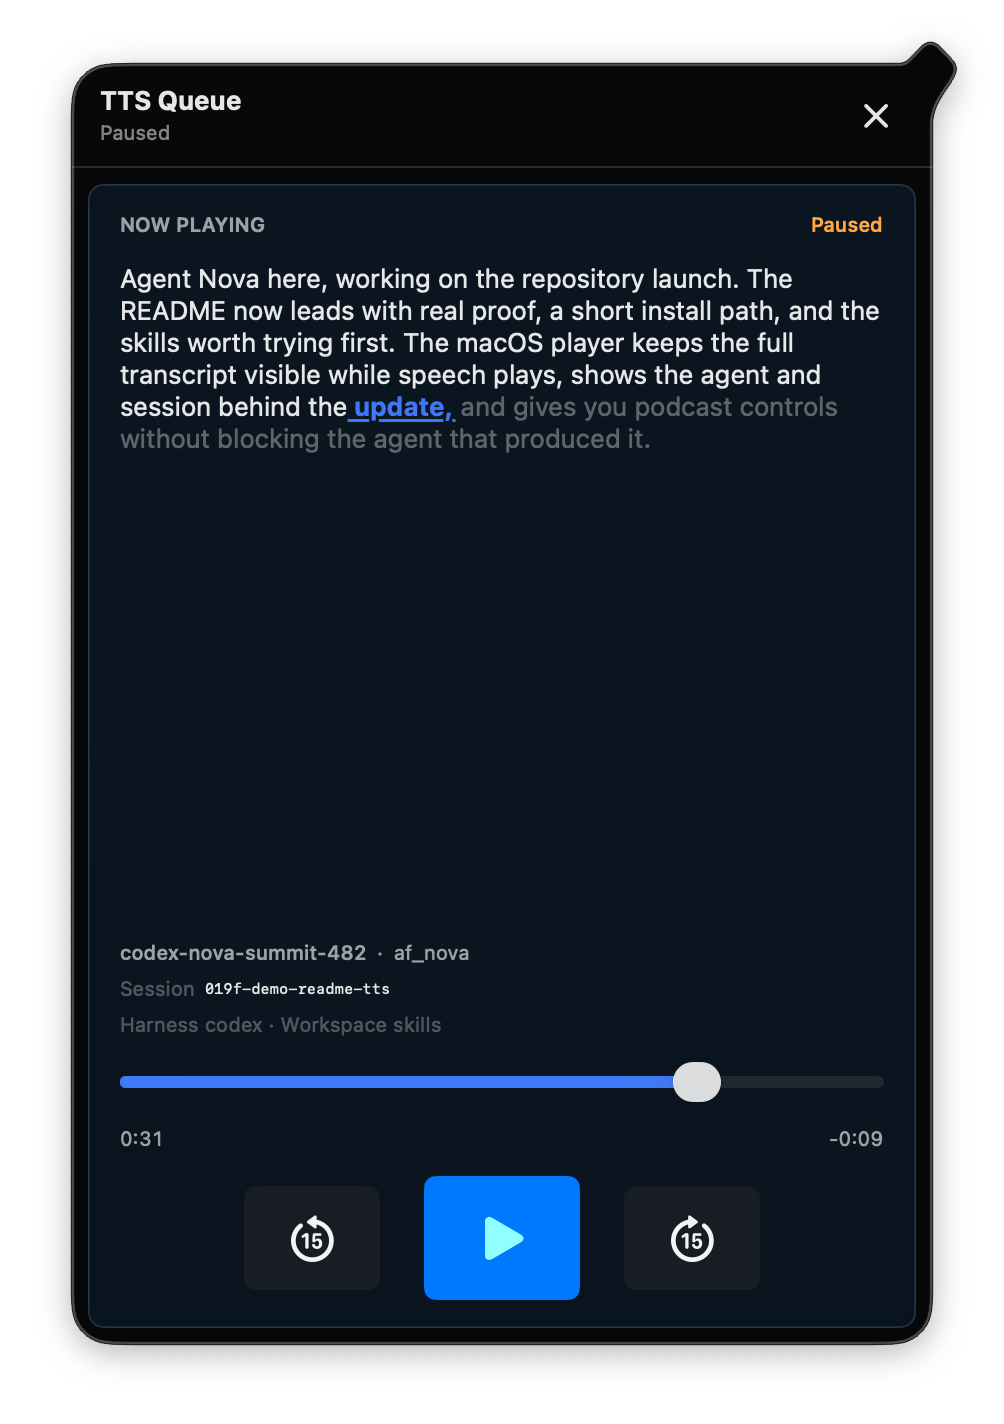
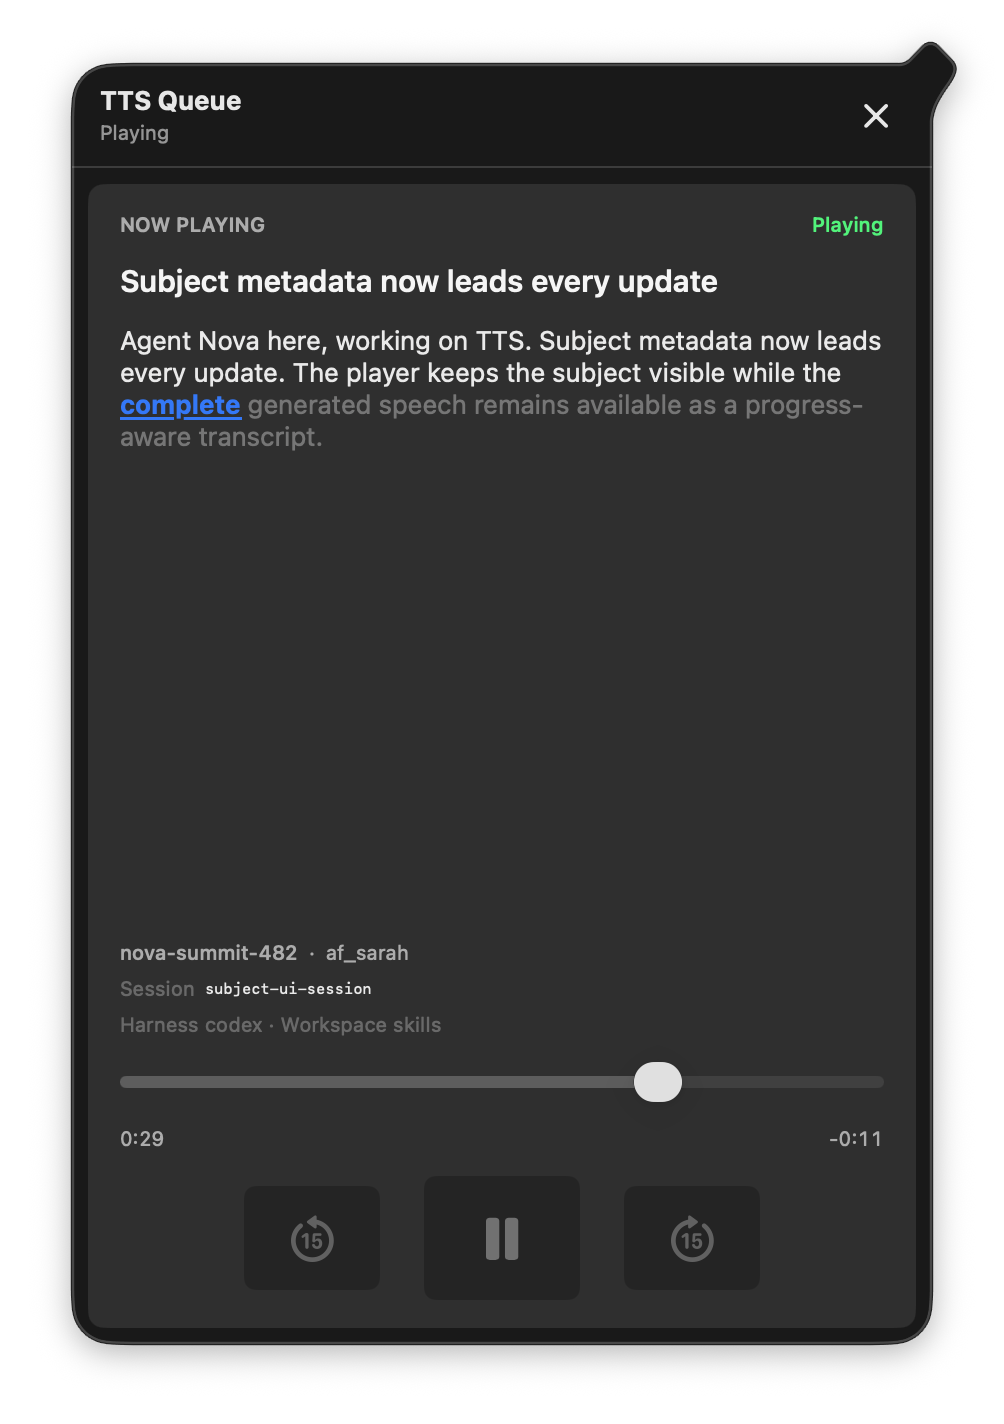
tts: add optional spoken subjects (#56)
Fixes #55

diff --git a/tts/macos/Sources/TTSMenuBar/TTSMenuBarApp.swift b/tts/macos/Sources/TTSMenuBar/TTSMenuBarApp.swift
@@ -232,6 +232,13 @@ private struct CurrentPlaybackView: View {
                     .foregroundStyle(controller.isPaused ? .orange : .green)
             }
 
+            if let subject = item.subjectLabel {
+                Text(subject)
+                    .font(.title3.weight(.semibold))
+                    .lineLimit(2)
+                    .accessibilityAddTraits(.isHeader)
+            }
+
             TranscriptView(
                 text: item.text,
                 currentTime: controller.currentTime,
@@ -459,7 +466,7 @@ private struct ItemRow: View {
                 .buttonStyle(.plain)
                 .disabled(!FileManager.default.fileExists(atPath: item.outputFile))
                 .help("Replay")
-                .accessibilityLabel("Replay " + item.text)
+                .accessibilityLabel("Replay " + (item.subjectLabel ?? item.text))
             } else {
                 rowContent(showsReplay: false)
             }
@@ -475,8 +482,18 @@ private struct ItemRow: View {
     private func rowContent(showsReplay: Bool) -> some View {
         HStack(alignment: .top, spacing: 10) {
             VStack(alignment: .leading, spacing: 4) {
-                Text(item.text)
-                    .lineLimit(2)
+                if let subject = item.subjectLabel {
+                    Text(subject)
+                        .fontWeight(.semibold)
+                        .lineLimit(2)
+                    Text(item.text)
+                        .font(.caption)
+                        .foregroundStyle(.secondary)
+                        .lineLimit(2)
+                } else {
+                    Text(item.text)
+                        .lineLimit(2)
+                }
                 MetadataLine(item: item)
 
                 if let session = item.sessionLabel {

diff --git a/tts/macos/Tests/TTSMenuBarTests/QueueStoreTests.swift b/tts/macos/Tests/TTSMenuBarTests/QueueStoreTests.swift
@@ -47,6 +47,7 @@ struct QueueStoreTests {
 
         #expect(replay.id.hasPrefix("replay-"))
         #expect(replay.text == original.text)
+        #expect(replay.subject == original.subject)
         #expect(replay.agentName == original.agentName)
         #expect(replay.sessionID == original.sessionID)
         #expect(replay.status == .queued)
@@ -61,6 +62,26 @@ struct QueueStoreTests {
         value.sessionID = "019c-live-menu-uat-full-session"
 
         #expect(value.sessionLabel == "019c-live-menu-uat-full-session")
+    }
+
+    @Test
+    func keepsOptionalSubjectForDisplay() {
+        var value = item(id: "subject", createdAt: 10)
+        value.subject = "Queue ownership is now explicit"
+
+        #expect(value.subjectLabel == "Queue ownership is now explicit")
+    }
+
+    @Test
+    func decodesExistingQueueItemsWithoutSubject() throws {
+        let data = try JSONEncoder().encode(item(id: "legacy", createdAt: 10))
+        var object = try #require(JSONSerialization.jsonObject(with: data) as? [String: Any])
+        object.removeValue(forKey: "subject")
+
+        let legacyData = try JSONSerialization.data(withJSONObject: object)
+        let decoded = try JSONDecoder().decode(TTSItem.self, from: legacyData)
+
+        #expect(decoded.subject == nil)
     }
 
     @Test
@@ -90,6 +111,7 @@ struct QueueStoreTests {
         TTSItem(
             id: id,
             text: "A useful spoken update",
+            subject: "A useful spoken update subject",
             agentName: "clay-river-860",
             harness: "codex",
             sessionID: "thread-123",

diff --git a/tts/macos/Sources/TTSMenuBar/Models.swift b/tts/macos/Sources/TTSMenuBar/Models.swift
@@ -19,6 +19,7 @@ enum PlaybackStatus: String, Codable, CaseIterable {
 struct TTSItem: Codable, Identifiable, Equatable {
     var id: String
     var text: String
+    var subject: String?
     var agentName: String?
     var harness: String?
     var sessionID: String?
@@ -35,6 +36,7 @@ struct TTSItem: Codable, Identifiable, Equatable {
     enum CodingKeys: String, CodingKey {
         case id
         case text
+        case subject
         case agentName = "agent_name"
         case harness
         case sessionID = "session_id"
@@ -51,6 +53,10 @@ struct TTSItem: Codable, Identifiable, Equatable {
 
     var displayAgent: String {
         nonempty(agentName) ?? nonempty(harness) ?? "Unknown agent"
+    }
+
+    var subjectLabel: String? {
+        nonempty(subject)
     }
 
     var workspaceName: String? {
@@ -70,6 +76,7 @@ struct TTSItem: Codable, Identifiable, Equatable {
         TTSItem(
             id: "replay-\(UUID().uuidString.lowercased())",
             text: text,
+            subject: subject,
             agentName: agentName,
             harness: harness,
             sessionID: sessionID,

diff --git a/tts/SKILL.md b/tts/SKILL.md
@@ -44,6 +44,16 @@ harness name. Use names like `quinn-delta-306`; do not use generic values like
 script can choose a deterministic voice from that name. Use `--voice-id` only
 when a specific voice is required.
 
+## Subject
+
+Use `--subject` when a substantive update benefits from a scannable topic in
+the queue. Write 5 to 10 words that name the outcome or subject clearly. The
+subject is displayed prominently in the player and spoken immediately after
+any introduction, before the message body.
+
+Skip `--subject` when it would add ceremony without useful context, such as a
+brief conversational response, acknowledgement, or follow-up question.
+
 ## Playback behavior
 
 By default, `scripts/tts` generates the MP3 in the foreground, then queues
@@ -57,7 +67,8 @@ uses a podcast-style player with an approximate word-progress transcript.
 While an item is playing or paused, the popup focuses on its full player and
 transcript; the queue and recent history return when playback becomes idle.
 Queue rows include the text, voice, agent name, and any harness, full session
-identifier, and workspace metadata available in the calling environment.
+identifier, subject, and workspace metadata available in the calling
+environment.
 
 Use `scripts/tts-menu status` to check whether TTS is playing and inspect queue
 counts. Use `scripts/tts-menu status --json` for structured status. Use
@@ -81,6 +92,6 @@ ends.
 Queue records, process state, and logs live under the TTS state directory,
 normally `~/.local/state/tts/`.
 
-`./scripts/tts --agent-name quinn-delta-306 --introduction "Agent Quinn here, working on improving TTS identity cues." "The fix is ready."` will speak with identity context when needed.
+`./scripts/tts --agent-name quinn-delta-306 --introduction "Agent Quinn here, working on TTS." --subject "Playback queue ownership is now explicit" "The fix is ready."` will speak the introduction when needed, then the subject, then the body.
 
 `./scripts/tts --no-play --voice-id af_bella "Hello world"` will generate the MP3, print its output path, skip playback, and use an explicit voice.

diff --git a/tts/README.md b/tts/README.md
@@ -7,7 +7,7 @@ Agent work is increasingly parallel, but attention is still serial. Important up
 `tts` gives those updates a shared audio surface. Each agent can finish a meaningful unit of work with a short spoken message, then return control immediately. The listener gets one orderly stream instead of overlapping voices or another queue of unread text.
 
 <p align="center">
-  <img src="../assets/tts-menu-player.png" alt="The TTS macOS menu-bar player showing transcript progress, agent identity, session metadata, timeline, and playback controls" width="460">
+  <img src="../assets/tts-menu-player.png" alt="The TTS macOS menu-bar player showing a subject, transcript progress, agent identity, session metadata, timeline, and playback controls" width="460">
 </p>
 
 ## The experience
@@ -19,6 +19,7 @@ The workflow owns more than text generation:
 - One resident macOS process serializes updates from every agent session.
 - The current transcript receives the full player surface, with approximate word highlighting as playback advances.
 - Agent name, voice, harness, workspace, and full session identifier make each update attributable.
+- An optional 5-to-10-word subject is spoken after the introduction and gives substantive updates a scannable title in the player and queue.
 - Pause, timeline scrubbing, 15-second seek, and replay make it behave like a small podcast queue rather than a fire-and-forget alert.
 - Music and Spotify can be paused for speech and resumed afterward.
 
@@ -33,6 +34,7 @@ export KOKORO_API_ENDPOINT="https://<your-host>/v1/audio/speech"
 ./scripts/tts \
   --agent-name nova-summit-482 \
   --introduction "Agent Nova here, working on the repository launch." \
+  --subject "The repository launch update is ready" \
   "The README update is ready for review."
 ```
 

diff --git a/README.md b/README.md
@@ -29,10 +29,10 @@ The agent should inspect the repository before it writes, identify the real audi
 
 Agents already produce useful status updates. `tts` turns them into a shared audio queue you can follow without watching every terminal or letting concurrent sessions speak over each other.
 
-On macOS, it becomes a menu-bar player with a readable transcript, agent and session identity, timeline scrubbing, pause, seek, and replay. Generation failures stay visible to the calling agent before playback moves into the background.
+On macOS, it becomes a menu-bar player with optional spoken subjects, a readable transcript, agent and session identity, timeline scrubbing, pause, seek, and replay. Generation failures stay visible to the calling agent before playback moves into the background.
 
 <p align="center">
-  <a href="tts/README.md"><img src="assets/tts-menu-player.png" alt="The TTS skill showing an agent update with transcript progress, session metadata, and podcast controls" width="240"></a>
+  <a href="tts/README.md"><img src="assets/tts-menu-player.png" alt="The TTS skill showing a subject, transcript progress, session metadata, and podcast controls" width="240"></a>
 </p>
 
 [See the player, workflow, and first spoken update →](tts/README.md)
